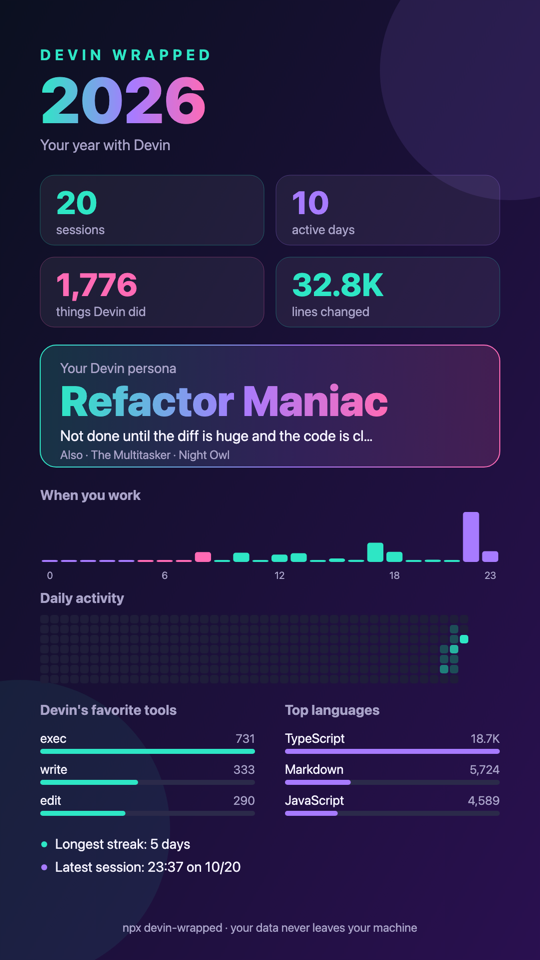
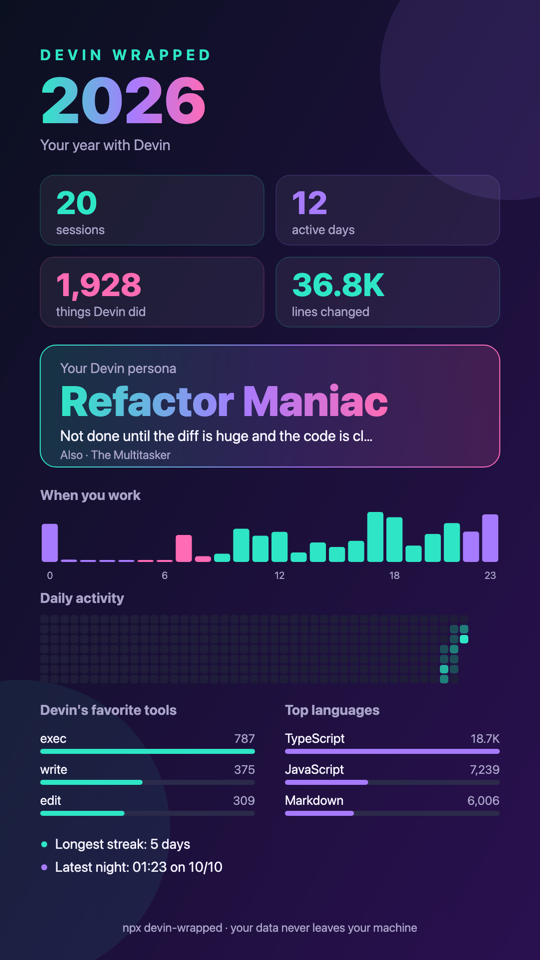
Use each message's own timestamp instead of the row timestamp
Devin rewrites message_nodes.created_at when it compacts or reloads a
session, so many rows share one coarse value and hours, days, streaks and
session lengths were skewed. metadata.created_at keeps the real time.

Generated with [Devin](https://devin.ai)

diff --git a/lib/db.js b/lib/db.js
@@ -23,6 +23,13 @@ function openDb(file) {
 // Context compaction sends the transcript back as a "user" message; it is not something the user typed.
 const INTERNAL_PROMPT_RE = /^Output a summary from the following messages/;
 
+/** The message's own metadata.created_at (precise); falls back to the row's created_at (seconds). */
+function messageTime(m, rowCreatedAt) {
+  const iso = m.metadata && m.metadata.created_at;
+  const t = typeof iso === 'string' ? Date.parse(iso) : NaN;
+  return Number.isFinite(t) ? t : rowCreatedAt * 1000;
+}
+
 function parse(json) {
   try { return JSON.parse(json); } catch { return null; }
 }
@@ -44,10 +51,13 @@ function readStore(file, { from = 0, to = Infinity } = {}) {
 
     const messages = [];
     const seen = new Set();
-    const stmt = db.prepare('SELECT session_id, chat_message, created_at FROM message_nodes WHERE created_at >= ? AND created_at < ?');
-    for (const row of stmt.iterate(Math.floor(from / 1000), to === Infinity ? Number.MAX_SAFE_INTEGER : Math.ceil(to / 1000))) {
+    // Row timestamps can be rewritten later (compaction / reload), so filter on the message's own time.
+    const stmt = db.prepare("SELECT session_id, chat_message, created_at FROM message_nodes WHERE chat_message LIKE '%\"role\":\"user\"%' OR chat_message LIKE '%\"role\":\"assistant\"%'");
+    for (const row of stmt.iterate()) {
       const m = parse(row.chat_message);
       if (!m || (m.role !== 'user' && m.role !== 'assistant')) continue;
+      const ts = messageTime(m, row.created_at);
+      if (ts < from || ts >= to) continue;
       // The same message can appear on several branches of a session's message tree.
       if (m.message_id) {
         if (seen.has(m.message_id)) continue;
@@ -60,7 +70,7 @@ function readStore(file, { from = 0, to = Infinity } = {}) {
       messages.push({
         sessionId: row.session_id,
         role: m.role,
-        ts: row.created_at * 1000,
+        ts,
         userInput: m.role === 'user' && meta.is_user_input === true,
         chars: content.length,
         tools: Array.isArray(m.tool_calls) ? m.tool_calls.map((c) => ({
@@ -93,4 +103,4 @@ function readStore(file, { from = 0, to = Infinity } = {}) {
   }
 }
 
-module.exports = { defaultDbPath, readStore };
+module.exports = { defaultDbPath, messageTime, readStore };

diff --git a/tests/stats.test.js b/tests/stats.test.js
@@ -82,3 +82,18 @@ test('periods', () => {
   assert.throws(() => resolvePeriod({ days: '0' }), /days/);
   assert.throws(() => resolvePeriod({ year: 'abc' }), /year/);
 });
+
+test('message time comes from metadata.created_at, not the (rewritable) row timestamp', (t) => {
+  const store = buildStore();
+  t.after(store.cleanup);
+  const { DatabaseSync } = require('node:sqlite');
+  const db = new DatabaseSync(store.file);
+  const rowTs = Date.UTC(2025, 0, 1) / 1000; // row says 2025 ...
+  db.prepare('INSERT INTO message_nodes (session_id, node_id, chat_message, created_at) VALUES (?, ?, ?, ?)')
+    .run('s1', 999, JSON.stringify({ message_id: 'late', role: 'user', content: 'hello', metadata: { is_user_input: true, created_at: '2026-07-04T10:00:00.5Z' } }), rowTs);
+  db.close();
+  const raw = readStore(store.file, YEAR_2026);
+  const m = raw.messages.find((x) => x.chars === 5);
+  assert.equal(m.ts, Date.parse('2026-07-04T10:00:00.5Z')); // ... the message says 2026
+  assert.equal(readStore(store.file, { from: Date.UTC(2025, 0, 1), to: Date.UTC(2026, 0, 1) }).messages.some((x) => x.chars === 5), false);
+});
